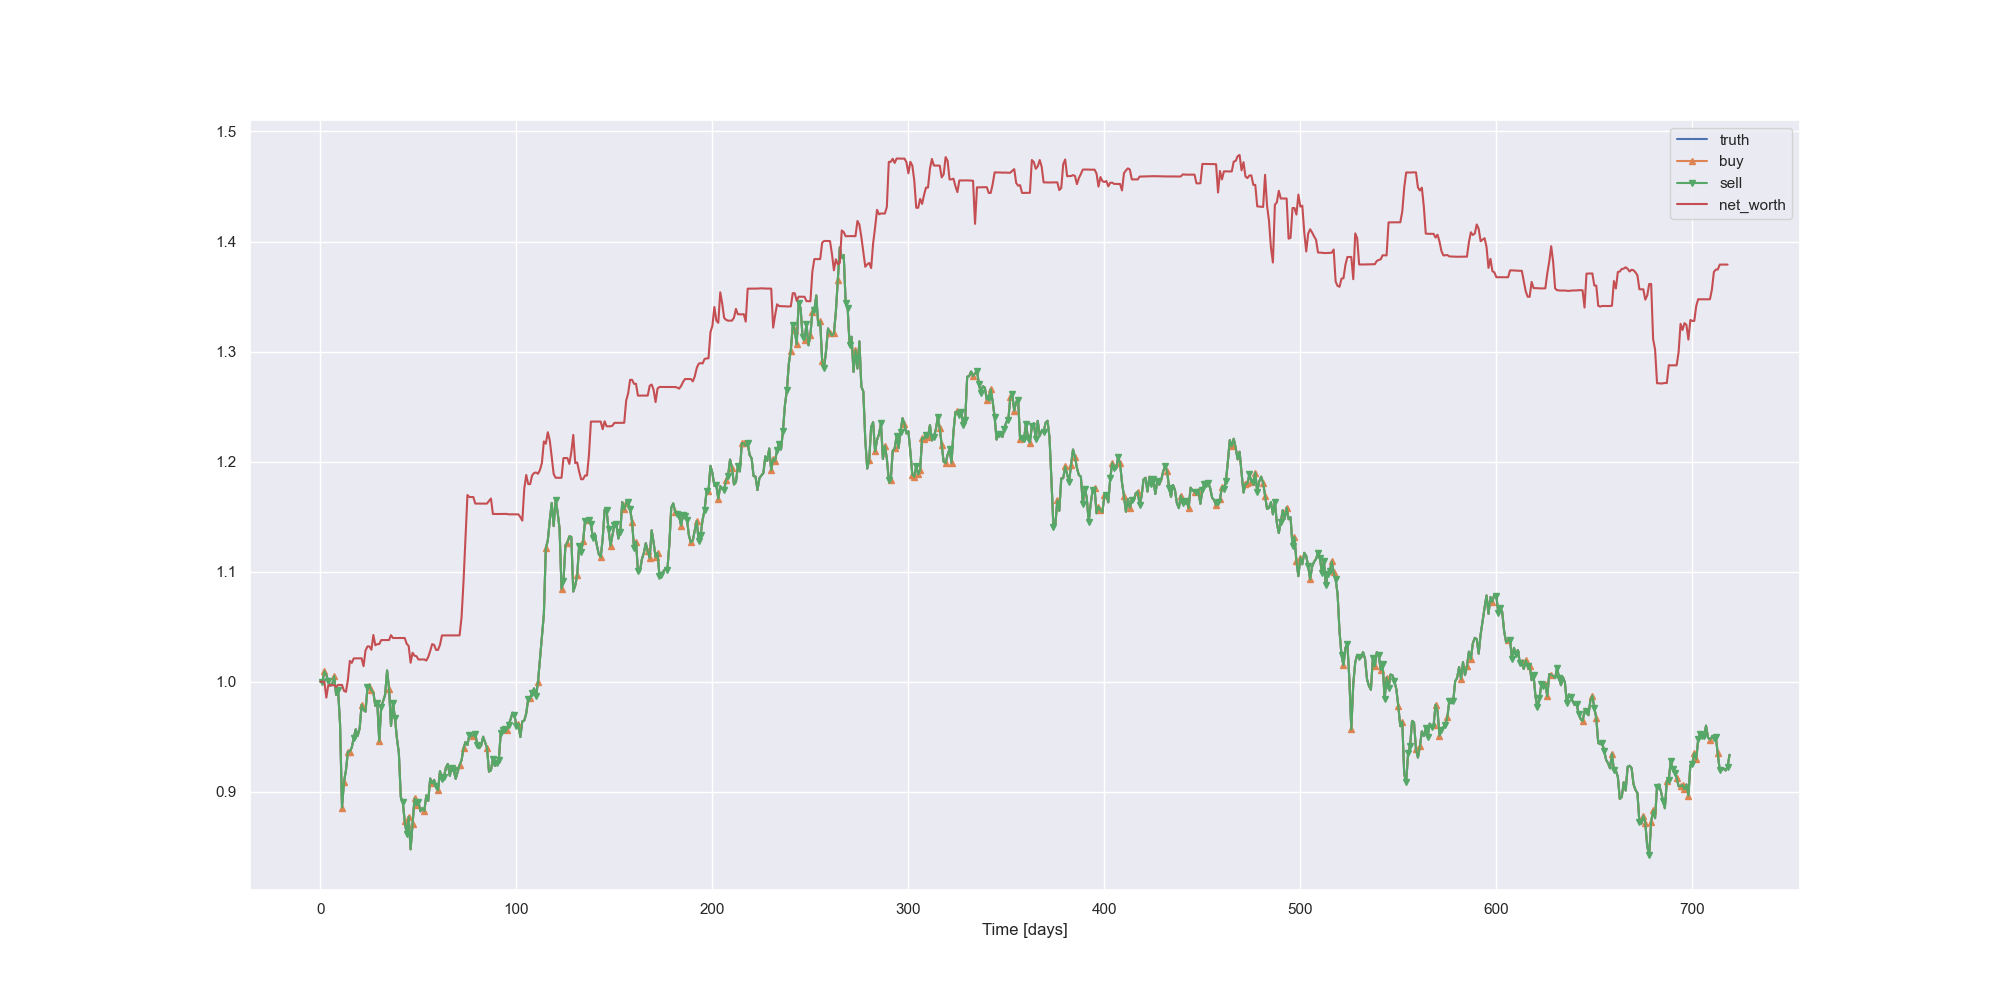
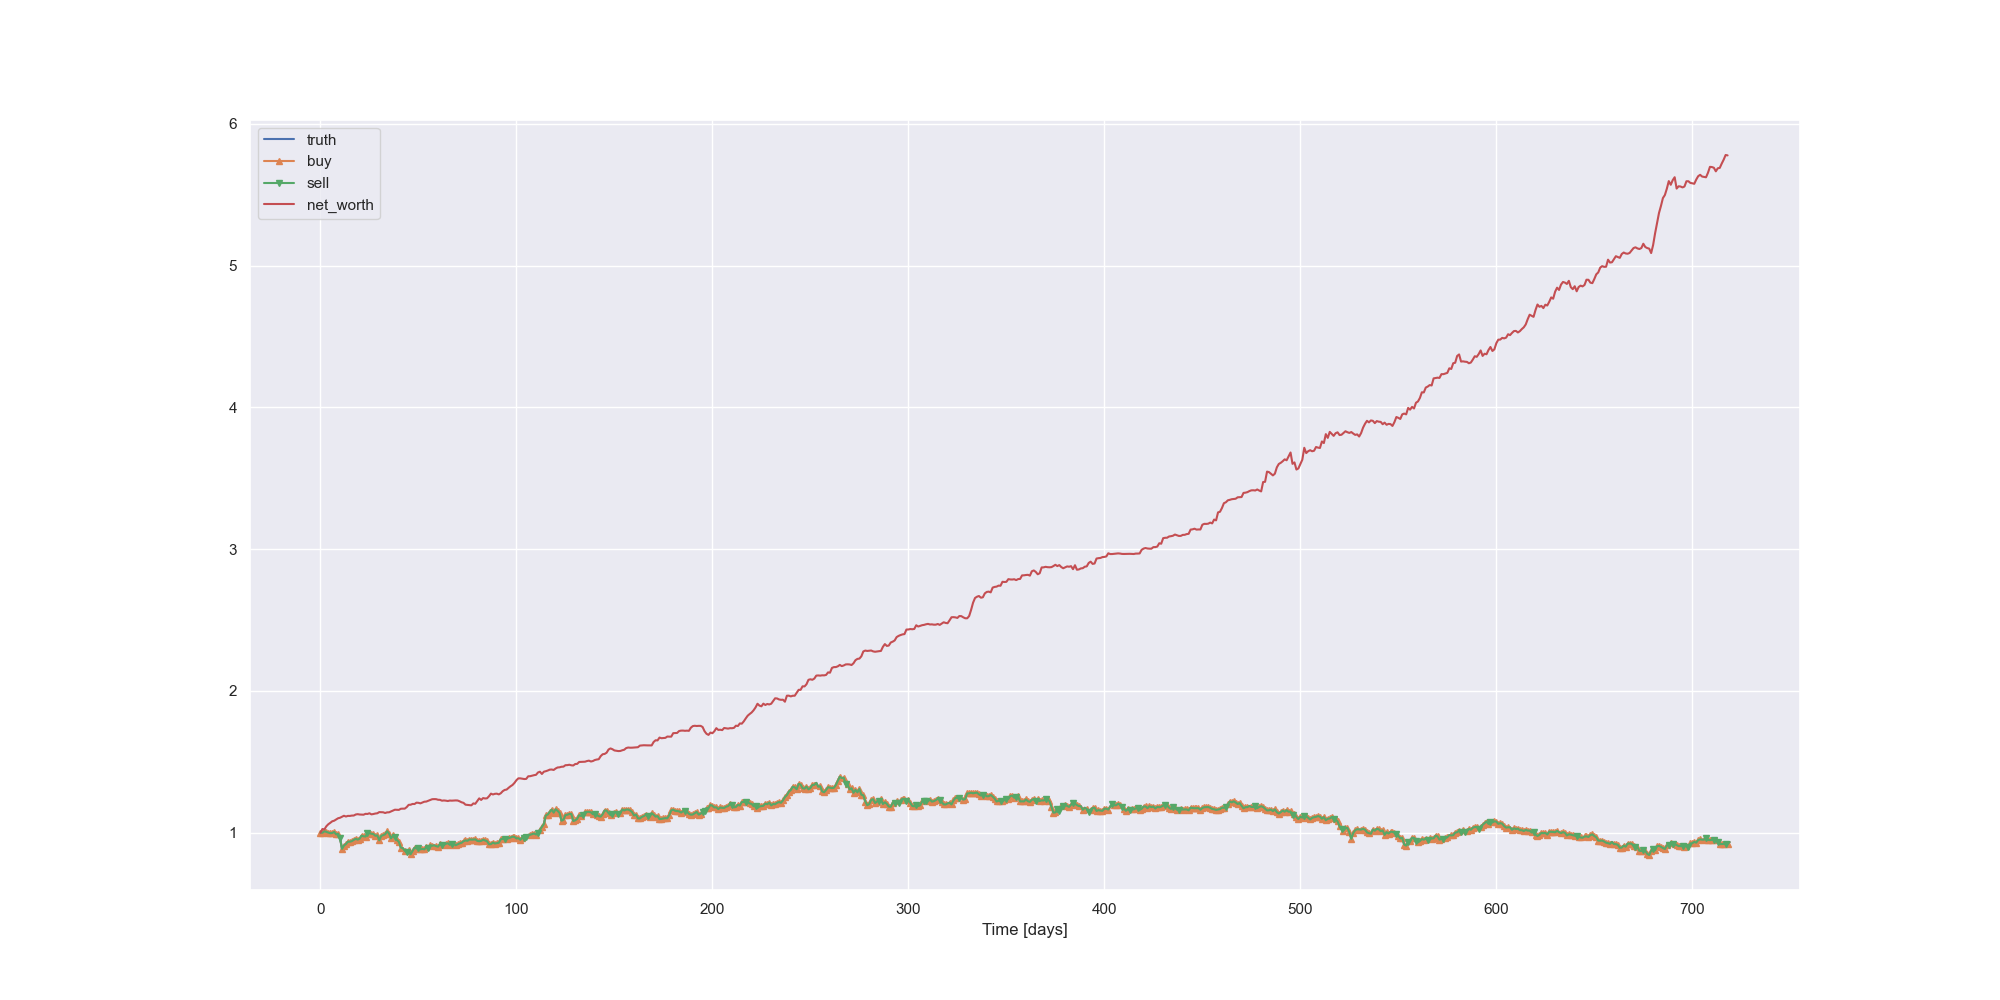
feat: set init water to 0.1

diff --git a/trading/simpleRL/wy_baseline.py b/trading/simpleRL/wy_baseline.py
@@ -1,0 +1,82 @@
+import numpy as np
+from numba import jit, njit, prange
+
+
+@njit(fastmath=True)
+def selc_func(x):
+    # return np.log(x + 1)
+    # return x**4
+    # return 1
+    return x+1.1**(-x)
+    # return max(100-10*x,0)
+    # return max(x-50,0.1)
+
+
+@njit(fastmath=True)
+def wy_tradegy(predmax, predmin, truemax, truemin, trueopen, trueover, setwater=0.5):
+    open_money = trueopen * (1 - setwater)
+    ticket = setwater
+    res = open_money
+    mid = trueopen
+    if truemin < mid:
+        theory_ke = int((mid - predmin) / 0.01)
+        real_ke = int((mid - truemin) / 0.01)
+        ssum = 0.0
+        for i in range(theory_ke):
+            ssum += selc_func(i)
+
+        for i in range(min(real_ke, theory_ke)):
+            res -= ((mid - i * 0.01) * selc_func(i) / ssum) * setwater
+            ticket += (selc_func(i) / ssum) * setwater
+
+    if truemax > mid:
+        theory_ke = int((predmax - mid) / 0.01)
+        real_ke = int((truemax - mid) / 0.01)
+        ssum = 0.0
+        for i in range(theory_ke):
+            ssum += selc_func(i)
+
+        for i in range(min(real_ke, theory_ke)):
+            res += ((mid + i * 0.01) * selc_func(i) / ssum) * setwater
+            ticket -= (selc_func(i) / ssum) * setwater
+
+    res += trueover*(ticket - setwater)
+    ticket = setwater
+    return res/trueover + setwater
+
+
+@njit(fastmath=True)
+def wy_tradegy_int(predmax, predmin, truemax, truemin, trueopen, trueover, setwater=0.5, maxm=100000):
+    open_money = trueopen * (1 - setwater)  # 参与交易的金额
+    ticket = setwater  # 拥有股票
+    res = open_money  # 用于金钱
+    mid = trueopen  # 中轴
+    if truemin < mid:  # 低于中轴可以买
+        theory_ke = int((mid - predmin) / 0.01)  # 预测的距离刻度值 一分钱为1个刻度
+        real_ke = int((mid - truemin) / 0.01)  # 实际距离
+        ssum = 0.0  # selc_func归一化
+        for i in range(theory_ke):
+            ssum += selc_func(i)
+
+        for i in range(min(real_ke, theory_ke)):  # 每个刻度进行铺单
+            tmp = int((selc_func(i) / ssum) * setwater * maxm /
+                      (mid - i * 0.01)) / (maxm / (mid - i * 0.01))  # 铺单的量
+            ticket += tmp  # 买股票
+            res -= (mid - i * 0.01) * tmp  # 花钱
+
+    if truemax > mid:
+        theory_ke = int((predmax - mid) / 0.01)
+        real_ke = int((truemax - mid) / 0.01)
+        ssum = 0.0
+        for i in range(theory_ke):
+            ssum += selc_func(i)
+
+        for i in range(min(real_ke, theory_ke)):
+            tmp = int((selc_func(i) / ssum) * setwater * maxm /
+                      (mid + i * 0.01)) / (maxm / (mid + i * 0.01))
+            ticket -= tmp
+            res += (mid + i * 0.01) * tmp
+
+    res += trueover*(ticket - setwater)
+    ticket = setwater
+    return res/trueover + setwater

diff --git a/trading/simpleRL/env.py b/trading/simpleRL/env.py
@@ -1,4 +1,3 @@
-from ..wy_baseline import wy_tradegy_int
 import random
 import json
 import gym
@@ -7,6 +6,8 @@ import pandas as pd
 import numpy as np
 import seaborn as sns
 sns.set()
+
+from wy_baseline import wy_tradegy_int
 
 np.random.seed(0)
 
@@ -40,6 +41,7 @@ class StockTradingEnv(gym.Env):
         # Prices contains the OHCL values for the last five prices
         self.observation_space = spaces.Box(
             low=0, high=1, shape=(4*41 + 6,), dtype=np.float16)
+        self.percent_token = 0.1
 
 
     def _next_observation(self):
@@ -103,8 +105,12 @@ class StockTradingEnv(gym.Env):
         #     self.net_worth = self.balance + self.shares_held * current_price
         if action_type < 1:
             self.percent_token += amount
+            self.percent_token = min(self.percent_token, 1)
+            self.percent_token = max(self.percent_token, 0)
         elif action_type < 2:
             self.percent_token -= amount
+            self.percent_token = min(self.percent_token, 1)
+            self.percent_token = max(self.percent_token, 0)
         predhigh = self.df.loc[self.current_step, 'high']
         predlow = self.df.loc[self.current_step, 'low']
         truehigh = self.df.loc[self.current_step, 'high_truth']
@@ -155,7 +161,7 @@ class StockTradingEnv(gym.Env):
         self.cost_basis = 0
         self.total_shares_sold = 0
         self.total_sales_value = 0
-        self.percent_token = 0
+        self.percent_token = 0.1
         # pass test dataset to environment
         if new_df:
             self.df = new_df
